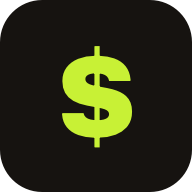
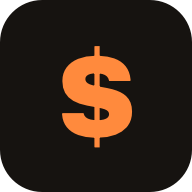
Acento naranja en lugar de verde lima y tema en Inicio (v2.5)
- Todo el color de acento pasa de lima a naranja, con sus tonos equivalentes
  (fuerte, oscuro para texto, suave para fondos) en modo claro y oscuro.
  El verde de los ingresos se mantiene.
- Íconos de la app con el «$» naranja.
- Botón de claro/oscuro de nuevo arriba en Inicio, junto al ojo y Ajustes.

Changed region(s): [[0.3125, 0.2188, 0.6875, 0.7812]]

diff --git a/styles.css b/styles.css
@@ -1,7 +1,10 @@
 *{box-sizing:border-box;margin:0;padding:0;-webkit-tap-highlight-color:transparent}
-[data-theme=dark]{--navbg:rgba(42,41,37,.86);--navfg:#8a857d;--accbg:rgba(200,241,53,.15);--accfg:#c8f135;--bg:#0d0d0c;--bg2:#191917;--bg3:#201f1d;--bg4:#2a2925;--text:#f3f1ec;--text2:#8a857d;--text3:#56524c;--border:rgba(255,255,255,.06);--bord2:rgba(255,255,255,.11);--inp:#201f1d;--navpill:#232220;--shadow:0 6px 22px rgba(0,0,0,.45);--shadowsm:0 3px 12px rgba(0,0,0,.4);--limetint:rgba(200,241,53,.13);--lav:rgba(170,150,250,.16);--peach:rgba(251,160,90,.16);--mint:rgba(74,222,128,.15);--sky:rgba(96,165,250,.16);--limetx:#c8f135}
-[data-theme=light]{--navbg:rgba(255,255,255,.86);--navfg:#9a948b;--accbg:#e9f5bd;--accfg:#4f6608;--bg:#eeedea;--bg2:#ffffff;--bg3:#f4f3f0;--bg4:#e8e7e3;--text:#17110d;--text2:#8d877f;--text3:#bdb8b0;--border:rgba(0,0,0,.05);--bord2:rgba(0,0,0,.09);--inp:#f4f3f0;--navpill:#161310;--shadow:0 6px 22px rgba(30,26,22,.06);--shadowsm:0 3px 12px rgba(30,26,22,.05);--limetint:#edf7c4;--lav:#ece7fb;--peach:#fde6cf;--mint:#d7f3e1;--sky:#dceaff;--limetx:#6f8c0f}
-:root{--lime:#c8f135;--limedk:#6f8c0f;--limebg:rgba(200,241,53,.16);--green:#22c55e;--greenbg:rgba(34,197,94,.13);--green-bg:rgba(34,197,94,.13);--red:#ef4444;--redbg:rgba(239,68,68,.12);--red-bg:rgba(239,68,68,.12);--amber:#f59e0b;--amberbg:rgba(245,158,11,.13);--blue:#60a5fa;--r:22px}
+[data-theme=dark]{--navbg:rgba(42,41,37,.86);--navfg:#8a857d;--accbg:rgba(255,138,61,.16);--accfg:#ff9a52;--bg:#0d0d0c;--bg2:#191917;--bg3:#201f1d;--bg4:#2a2925;--text:#f3f1ec;--text2:#8a857d;--text3:#56524c;--border:rgba(255,255,255,.06);--bord2:rgba(255,255,255,.11);--inp:#201f1d;--navpill:#232220;--shadow:0 6px 22px rgba(0,0,0,.45);--shadowsm:0 3px 12px rgba(0,0,0,.4);--limetint:rgba(255,138,61,.14);--lav:rgba(170,150,250,.16);--peach:rgba(251,160,90,.16);--mint:rgba(74,222,128,.15);--sky:rgba(96,165,250,.16);--limetx:#ff9a52}
+[data-theme=light]{--navbg:rgba(255,255,255,.86);--navfg:#9a948b;--accbg:#ffe6d3;--accfg:#b8460e;--bg:#eeedea;--bg2:#ffffff;--bg3:#f4f3f0;--bg4:#e8e7e3;--text:#17110d;--text2:#8d877f;--text3:#bdb8b0;--border:rgba(0,0,0,.05);--bord2:rgba(0,0,0,.09);--inp:#f4f3f0;--navpill:#161310;--shadow:0 6px 22px rgba(30,26,22,.06);--shadowsm:0 3px 12px rgba(30,26,22,.05);--limetint:#ffe9d9;--lav:#ece7fb;--peach:#fde6cf;--mint:#d7f3e1;--sky:#dceaff;--limetx:#c2410c}
+/* Color de acento: naranja (las variables conservan el nombre «lime» de cuando era verde lima) */
+:root{--lime:#ff8a3d;--limedk:#c2410c;--limebg:rgba(255,138,61,.16);--green:#22c55e;--greenbg:rgba(34,197,94,.13);--green-bg:rgba(34,197,94,.13);--red:#ef4444;--redbg:rgba(239,68,68,.12);--red-bg:rgba(239,68,68,.12);--amber:#f59e0b;--amberbg:rgba(245,158,11,.13);--blue:#60a5fa;--r:22px}
+/* En modo oscuro el naranja oscuro se lee mal sobre negro: usar el claro */
+html[data-theme=dark]{--limedk:#ff9a52}
 body{font-family:Figtree,-apple-system,BlinkMacSystemFont,"Segoe UI",sans-serif;background:var(--bg);color:var(--text);min-height:100vh;padding-bottom:160px;overflow-x:hidden;-webkit-font-smoothing:antialiased;transition:background .2s,color .2s;max-width:480px;margin:0 auto}
 
 /* NAV: floating dark pill */
@@ -16,7 +19,7 @@ nav button.active span{display:inline}
 
 .page{display:none}.page.active{display:block;animation:fi .2s ease}
 @keyframes fi{from{transform:translateY(6px)}to{transform:translateY(0)}}
-@keyframes glow{0%,100%{box-shadow:0 0 0 4px rgba(200,241,53,.22),0 0 0 10px rgba(200,241,53,.1)}50%{box-shadow:0 0 0 6px rgba(200,241,53,.28),0 0 0 14px rgba(200,241,53,.12)}}
+@keyframes glow{0%,100%{box-shadow:0 0 0 4px rgba(255,138,61,.22),0 0 0 10px rgba(255,138,61,.1)}50%{box-shadow:0 0 0 6px rgba(255,138,61,.28),0 0 0 14px rgba(255,138,61,.12)}}
 
 .topbar{padding:calc(env(safe-area-inset-top,0px) + 18px) 20px 12px}
 .topbar h1{font-size:25px;font-weight:800;letter-spacing:-.6px}
@@ -89,7 +92,7 @@ nav button.active span{display:inline}
 .chip{flex-shrink:0;padding:8px 16px;border-radius:22px;font-size:13px;font-weight:600;border:1px solid var(--bord2);background:var(--bg2);cursor:pointer;color:var(--text2);white-space:nowrap;transition:all .15s;box-shadow:var(--shadowsm)}
 .chip.active{background:var(--lime);color:#161310;border-color:var(--lime)}
 
-.fab{position:fixed;bottom:calc(env(safe-area-inset-bottom,0px) + 84px);right:max(16px, calc(50vw - 224px));width:60px;height:60px;border-radius:50%;background:var(--lime);border:none;color:#161310;font-size:30px;cursor:pointer;display:flex;align-items:center;justify-content:center;z-index:101;box-shadow:0 10px 26px rgba(200,241,53,.42);transition:transform .12s;font-weight:500}
+.fab{position:fixed;bottom:calc(env(safe-area-inset-bottom,0px) + 84px);right:max(16px, calc(50vw - 224px));width:60px;height:60px;border-radius:50%;background:var(--lime);border:none;color:#161310;font-size:30px;cursor:pointer;display:flex;align-items:center;justify-content:center;z-index:101;box-shadow:0 10px 26px rgba(255,138,61,.42);transition:transform .12s;font-weight:500}
 .fab:active{transform:scale(.9)}
 
 .mback{display:none;position:fixed;inset:0;background:rgba(10,8,6,.6);backdrop-filter:blur(2px);z-index:200;align-items:flex-end}

diff --git a/app.js b/app.js
@@ -425,7 +425,7 @@ function recalcAllBalances(){
 // ── Gastos compartidos: una sola fuente de verdad ──
 // Solo se guarda el gasto compartido. Tu parte y los adelantos se calculan al vuelo.
 // Versión: 2.x para cambios normales (2.1, 2.2…); el primer número sube solo con cambios grandes (3.0)
-var APP_VERSION='2.4', APP_DATE='2026-10-16';
+var APP_VERSION='2.5', APP_DATE='2026-10-16';
 function isDerived(t){return !!(t&&t.mode==='tracking'&&(t.linkedFrom||t.isAdelanto||t.isReimb));}
 function baseTxs(){return txs.filter(function(t){return !isDerived(t);});}
 function acctNameById(id){for(var i=0;i<accts.length;i++)if(accts[i].id===id)return accts[i].name;return '';}

diff --git a/index.html b/index.html
@@ -31,6 +31,7 @@
     </div>
     <div class="dtopbtns">
       <button class="iconbtn" id="eyebtn" onclick="toggleBlur()" aria-label="Ocultar saldos"><i class="uii" data-ui="eye" data-s="19"></i></button>
+      <button class="iconbtn" id="d-themebtn" onclick="setTheme(theme==='dark'?'light':'dark')" aria-label="Cambiar tema"><i class="uii" data-ui="sun" data-s="19"></i></button>
       <button class="iconbtn" id="d-setbtn" onclick="showPage('settings')" aria-label="Ajustes"><i class="uii" data-ui="settings" data-s="19"></i></button>
     </div>
   </div>
